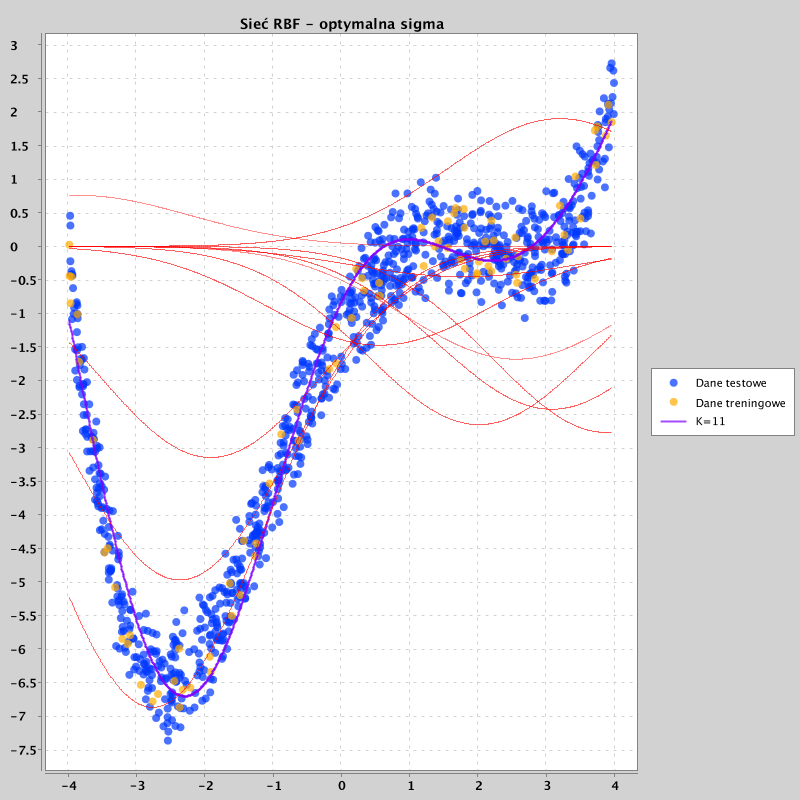
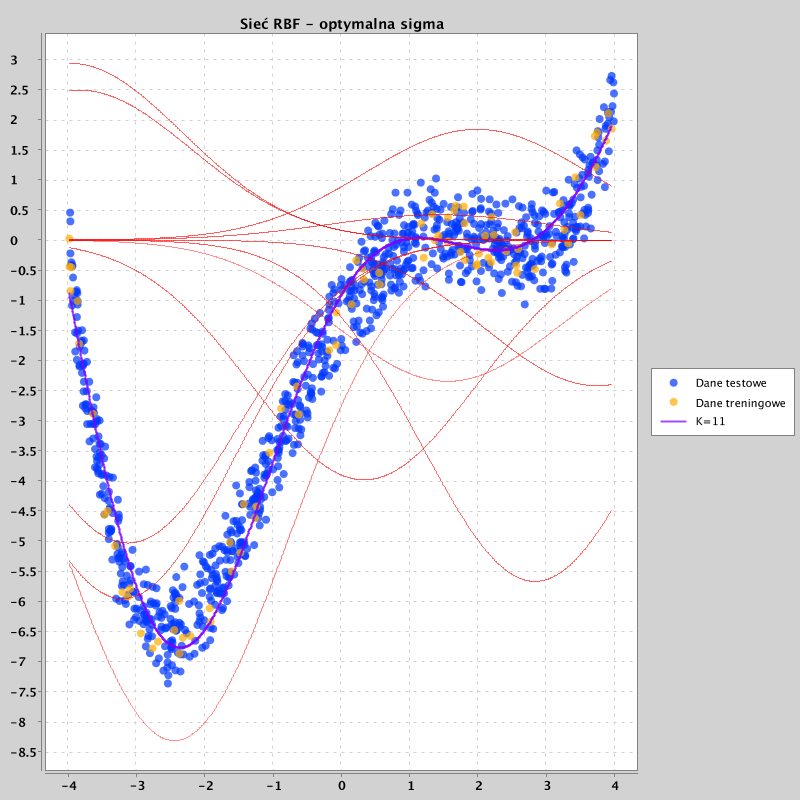
Regenerate 3/2 charts with different parameters

diff --git a/src/main/kotlin/tasks/Approximation3/Approximation3.kt b/src/main/kotlin/tasks/Approximation3/Approximation3.kt
@@ -60,10 +60,11 @@ abstract class Approximation3 {
 
     fun singleNetwork(numRadialNeurons: Int, sigmaGenerator: SigmaGenerator) : Network {
         val network = Network(numRadialNeurons, 1, trainingData, FromDataGenerator(), sigmaGenerator, alpha)
-        network.train(numIterations) { i, error -> if (i % getDisplayIterations() == 0) println("Radial neurons: $numRadialNeurons | iteration: $i | error: $error")}
+        network.train(getTrainingIterations()) { i, error -> if (i % getDisplayIterations() == 0) println("Radial neurons: $numRadialNeurons | iteration: $i | error: $error")}
 
         return network
     }
 
     open fun getDisplayIterations() = 500
+    open fun getTrainingIterations() = 6000
 }

diff --git a/src/main/kotlin/tasks/Approximation3/RadialVisualisation2.kt b/src/main/kotlin/tasks/Approximation3/RadialVisualisation2.kt
@@ -59,12 +59,13 @@ class RadialVisualisation2 : Approximation3() {
         Charts.saveChart("$folder/optimal", chart)
     }
 
-    override fun getDisplayIterations() = 1
+    override fun getDisplayIterations() = 100
+    override fun getTrainingIterations() = 5000
 }
 
 fun main() {
     val radialVisualisation2 = RadialVisualisation2()
-//    radialVisualisation2.optimal()
-   // radialVisualisation2.small()
+    radialVisualisation2.optimal()
+    radialVisualisation2.small()
     radialVisualisation2.big()
 }
